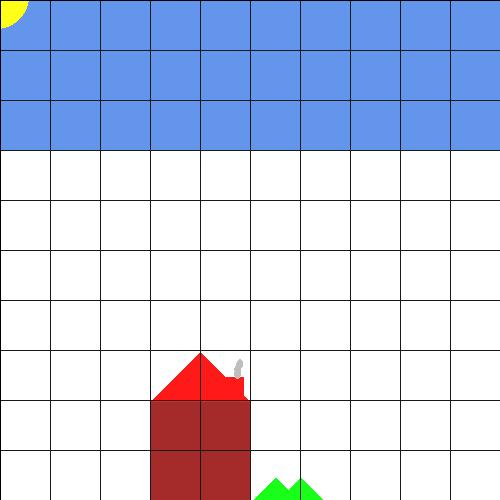
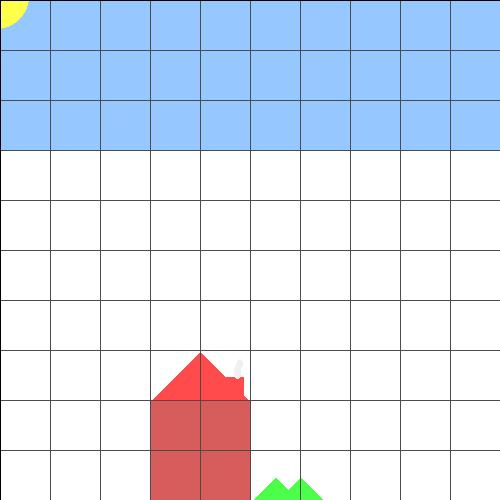
fix old test

diff --git a/Introduction to Software Engineering/project/src/unittests/RenderTest.java b/Introduction to Software Engineering/project/src/unittests/RenderTest.java
@@ -1,5 +1,7 @@
 package unittests;
 
+import static org.junit.Assert.fail;
+
 //import static org.junit.jupiter.api.Assertions.*;
 import org.junit.jupiter.api.Test;
 import geometries.*;
@@ -136,59 +138,89 @@ public class RenderTest {
 //	}
 	@Test
 	public void house(){
-		Scene scene = new Scene("Test scene");
-		scene.set_camera(new Camera(new Vector(0, -1, 0), new Vector(0, 0, 1), new Point3D(0, 0, 0)));
-		scene.set_distance(100);
-		scene.set_background(new Color(255, 255, 255));
-		Geometries geometries = new Geometries();
-		scene.set_geometries(geometries);
-		
-		geometries.addGeometry(new Triangle(new Point3D(-150, 225, 149),
-											new Point3D(  0, 375, 149),
-											new Point3D(-150, 375, 149), new Color(140,17,17)));
-		geometries.addGeometry(new Triangle(new Point3D(-150, 225, 149),
-											new Point3D(  0, 525, 149),
-											new Point3D(0, 225, 149),  new Color(140,17,17)));
-		geometries.addGeometry(new Triangle(new Point3D(-150, 225, 149),
-											new Point3D(  0, 225, 149),
-											new Point3D(-75, 150, 149), new Color(255,0,0)));
-		geometries.addGeometry(new Triangle(new Point3D(-10, 187.5, 149),
-											new Point3D(  -10, 215, 149),
-											new Point3D(-37.5, 187.5, 149), new Color(255,0,0)));
-		geometries.addGeometry(new Triangle(new Point3D(0, 375, 149),
-											new Point3D(  75, 375, 149),
-											new Point3D(37.5, 337.5, 149), new Color(0,255,0)));
-		geometries.addGeometry(new Triangle(new Point3D(37.5, 375, 149),
-											new Point3D(  112.5, 375, 149),
-											new Point3D(75, 337.5, 149), new Color(0,255,0)));
-		
-		geometries.addGeometry(new Triangle(new Point3D(0, -150, 149),
-											new Point3D(  375, -150, 149),
-											new Point3D(375, -375, 149), new Color(75,124,212)));
-		geometries.addGeometry(new Triangle(new Point3D(0, -150, 149),
-											new Point3D(  0, -375, 149),
-											new Point3D(375, -375, 149), new Color(75,124,212)));
-		geometries.addGeometry(new Triangle(new Point3D(0, -150, 149),
-											new Point3D(  -375, -150, 149),
-											new Point3D(-375, -375, 149), new Color(75,124,212)));
-		geometries.addGeometry(new Triangle(new Point3D(0, -150, 149),
-											new Point3D(  0, -375, 149),
-											new Point3D(-375, -375, 149), new Color(75,124,212)));
-		
-		geometries.addGeometry(new Sphere(new Point3D(-20, 184, 150), 5, new Color(165,165,165)));
-		geometries.addGeometry(new Sphere(new Point3D(-20, 177, 150), 5, new Color(165,165,165)));
-		geometries.addGeometry(new Sphere(new Point3D(-17, 170, 150), 5, new Color(165,165,165)));
-		
-		geometries.addGeometry(new Sphere(new Point3D(-380, -380, 140), 50, new Color(230,230,0)));
+//		Scene scene = new Scene("Test scene");
+//		scene.set_camera(new Camera(new Vector(0, -1, 0), new Vector(0, 0, 1), new Point3D(0, 0, 0)));
+//		scene.set_distance(100);
+//		scene.set_background(new Color(255, 255, 255));
+//		Geometries geometries = new Geometries();
+//		scene.set_geometries(geometries);
+//		
+//		geometries.addGeometry(new Triangle(new Point3D(-150, 225, 149),
+//											new Point3D(  0, 375, 149),
+//											new Point3D(-150, 375, 149), new Color(140,17,17)));
+//		geometries.addGeometry(new Triangle(new Point3D(-150, 225, 149),
+//											new Point3D(  0, 525, 149),
+//											new Point3D(0, 225, 149),  new Color(140,17,17)));
+//		geometries.addGeometry(new Triangle(new Point3D(-150, 225, 149),
+//											new Point3D(  0, 225, 149),
+//											new Point3D(-75, 150, 149), new Color(255,0,0)));
+//		geometries.addGeometry(new Triangle(new Point3D(-10, 187.5, 149),
+//											new Point3D(  -10, 215, 149),
+//											new Point3D(-37.5, 187.5, 149), new Color(255,0,0)));
+//		geometries.addGeometry(new Triangle(new Point3D(0, 375, 149),
+//											new Point3D(  75, 375, 149),
+//											new Point3D(37.5, 337.5, 149), new Color(0,255,0)));
+//		geometries.addGeometry(new Triangle(new Point3D(37.5, 375, 149),
+//											new Point3D(  112.5, 375, 149),
+//											new Point3D(75, 337.5, 149), new Color(0,255,0)));
+//		
+//		geometries.addGeometry(new Triangle(new Point3D(0, -150, 149),
+//											new Point3D(  375, -150, 149),
+//											new Point3D(375, -375, 149), new Color(75,124,212)));
+//		geometries.addGeometry(new Triangle(new Point3D(0, -150, 149),
+//											new Point3D(  0, -375, 149),
+//											new Point3D(375, -375, 149), new Color(75,124,212)));
+//		geometries.addGeometry(new Triangle(new Point3D(0, -150, 149),
+//											new Point3D(  -375, -150, 149),
+//											new Point3D(-375, -375, 149), new Color(75,124,212)));
+//		geometries.addGeometry(new Triangle(new Point3D(0, -150, 149),
+//											new Point3D(  0, -375, 149),
+//											new Point3D(-375, -375, 149), new Color(75,124,212)));
+//		
+//		geometries.addGeometry(new Sphere(new Point3D(-20, 184, 150), 5, new Color(165,165,165)));
+//		geometries.addGeometry(new Sphere(new Point3D(-20, 177, 150), 5, new Color(165,165,165)));
+//		geometries.addGeometry(new Sphere(new Point3D(-17, 170, 150), 5, new Color(165,165,165)));
+//		
+//		geometries.addGeometry(new Sphere(new Point3D(-380, -380, 140), 50, new Color(230,230,0)));
+//
+//
+//		ImageWriter imageWriter = new ImageWriter("house", 500, 500, 500, 500);
+//		Render render = new Render(scene, imageWriter);
+//		
+//		render.renderImage();
+//		render.printGrid(50);
+//		render.writeToImage();
 
-
-		ImageWriter imageWriter = new ImageWriter("house", 500, 500, 500, 500);
-		Render render = new Render(scene, imageWriter);
 		
-		render.renderImage();
-		render.printGrid(50);
-		render.writeToImage();
-
-
+		try {
+			Triangle t1 = new Triangle(new Point3D(100, 0, -49), new Point3D(0, 100, -49), new Point3D(100, 100, -49),
+					new Color(150, 0, 0));
+			Triangle t2 = new Triangle(new Point3D(-100, 0, -49), new Point3D(0, 100, -49),
+					new Point3D(-100, 100, -49), new Color(0, 150, 0));
+			Triangle t3 = new Triangle(new Point3D(100, 0, -49), new Point3D(0, -100, -49),
+					new Point3D(100, -100, -49), new Color(0,0,150));
+			Triangle t4 = new Triangle(new Point3D(-100, 0, -49), new Point3D(0, -100, -49),
+					new Point3D(-100, -100, -49), new Color(255,255,255));
+			Sphere s = new Sphere( new Point3D(0, 0, -50),40, new Color(0,250,250));
+			Scene testScene = new Scene("testScene");
+			testScene.set_background(new Color(75, 127, 190));
+			testScene.set_camera(new Camera(new Vector(0, -1, 0), new Vector(0, 0, -1),Point3D.ZERO));
+			testScene.set_distance(50);
+			Geometries geometries = new Geometries();
+			testScene.set_geometries(geometries);
+			geometries.addGeometry(t1);
+			geometries.addGeometry(t2);
+			geometries.addGeometry(t3);
+			geometries.addGeometry(t4);
+			geometries.addGeometry(s);
+			ImageWriter testImageWriter = new ImageWriter("4TrianglesAndSphere", 500, 500, 500, 500);
+			Render testRender = new Render(testScene, testImageWriter);
+			testRender.renderImage();
+			testRender.printGrid(50);
+			testRender.writeToImage();
+		} catch (Exception e) {
+			fail(e.getMessage());
+		}
 	}
+
 }

diff --git a/Introduction to Software Engineering/project/src/geometries/Sphere.java b/Introduction to Software Engineering/project/src/geometries/Sphere.java
@@ -29,7 +29,7 @@ public class Sphere extends RadialGeometry {
 	 *            TODO
 	 */
 	public Sphere(Point3D point, double radius, Color color) {
-		super(radius,color);
+		super(radius, color);
 		_point = new Point3D(point);
 	}
 
@@ -63,7 +63,7 @@ public class Sphere extends RadialGeometry {
 	 * @return list of points of the intersection
 	 */
 	public Map<Geometry, List<Point3D>> findIntersections(Ray ray) {
-		Map<Geometry, List<Point3D>> intersections=new HashMap<>();
+		Map<Geometry, List<Point3D>> intersections = new HashMap<>();
 		List<Point3D> list = new ArrayList<>();
 		Point3D rayPoint = ray.getPoint();
 		Vector rayVector = ray.getDirection();
@@ -76,7 +76,7 @@ public class Sphere extends RadialGeometry {
 			// U = 0, tm = 0, d = 0, th = radius
 			// intersection = Po + t*V
 			list.add(_point.addVectorToPoint(rayVector.scaleVector(_radius)));
-				intersections.put(this, list);
+			intersections.put(this, list);
 			return intersections;
 		}
 
@@ -90,17 +90,22 @@ public class Sphere extends RadialGeometry {
 		// th = sqrt(r^2 - d^2)
 		double th = Math.sqrt(_radius * _radius - d * d);
 		if (Coordinate.ZERO.equals(th)) {
-			if (tm > 0)
+			if (tm > 0) {
 				list.add(rayPoint.addVectorToPoint(rayVector.scaleVector(tm)));
+				intersections.put(this, list);
+			}
 		} else {
 			double t1 = tm + th;
 			double t2 = tm - th;
-			if (t1 > 0)
+			if (t1 > 0) {
 				list.add(rayPoint.addVectorToPoint(rayVector.scaleVector(t1)));
-			if (t2 > 0)
+				intersections.put(this, list);
+			}
+			if (t2 > 0) {
 				list.add(rayPoint.addVectorToPoint(rayVector.scaleVector(t2)));
+				intersections.put(this, list);
+			}
 		}
-		intersections.put(this, list);
 		return intersections;
 	}
 }

diff --git a/Introduction to Software Engineering/project/src/unittests/TriangleTests.java b/Introduction to Software Engineering/project/src/unittests/TriangleTests.java
@@ -6,11 +6,15 @@ package unittests;
 import static org.junit.jupiter.api.Assertions.*;
 
 import java.util.ArrayList;
+import java.util.List;
+import java.util.Map;
 
 import org.junit.jupiter.api.Test;
 
 import elements.Camera;
+import geometries.Geometry;
 import geometries.Triangle;
+import primitives.Color;
 import primitives.Point3D;
 import primitives.Ray;
 import primitives.Vector;
@@ -23,16 +27,15 @@ import scene.Scene;
 class TriangleTests {
 
 	private ArrayList<Point3D> getIntersections(Scene scene, Triangle triangle){
-		System.out.println("===============================================");
 		ArrayList<Point3D> list = new ArrayList<>();
 		for(int i = 1 ; i < 4 ;++i) {
 			for (int j = 1; j < 4; ++j) {
 				Ray r = scene.get_camera().constructRayThroghPixel(3, 3, i, j, scene.get_distance(), 9, 9);
-				System.out.println(r);
-				list.addAll(triangle.findIntersections(r));
+				Map<Geometry, List<Point3D>> map = triangle.findIntersections(r);
+				if(!map.isEmpty())
+					list.addAll(map.get(triangle));
 			}
 		}
-		System.out.println("===============================================");
 		return list;
 	}
 	

diff --git a/Introduction to Software Engineering/project/src/unittests/SphereTests.java b/Introduction to Software Engineering/project/src/unittests/SphereTests.java
@@ -5,12 +5,14 @@ import static org.junit.jupiter.api.Assertions.*;
 import java.util.ArrayList;
 import java.util.Collection;
 import java.util.List;
+import java.util.Map;
 
 import javax.swing.plaf.synth.SynthStyle;
 
 import org.junit.jupiter.api.Test;
 
 import elements.Camera;
+import geometries.Geometry;
 import geometries.Sphere;
 import primitives.Color;
 import primitives.Coordinate;
@@ -24,16 +26,15 @@ class SphereTests {
     
 	@Test
 	private List<Point3D> getIntersections(Scene scene, Sphere sphere){
-		System.out.println("===============================================");
 		List<Point3D> list = new ArrayList<>();
 		for(int i = 1 ; i < 4 ;++i) {
 			for (int j = 1; j < 4; ++j) {
 				Ray r = scene.get_camera().constructRayThroghPixel(3, 3, i, j, scene.get_distance(), 9, 9);
-				System.out.println(r);
-				list.addAll(sphere.findIntersections(r));
+				Map<Geometry, List<Point3D>> map = sphere.findIntersections(r);
+				if(!map.isEmpty())
+					list.addAll(map.get(sphere));
 			}
 		}
-		System.out.println("===============================================");
 		return list;
 	}
 	

diff --git a/Introduction to Software Engineering/project/src/unittests/PlaneTests.java b/Introduction to Software Engineering/project/src/unittests/PlaneTests.java
@@ -7,6 +7,8 @@ package unittests;
 import static org.junit.jupiter.api.Assertions.*;
 
 import java.util.ArrayList;
+import java.util.List;
+import java.util.Map;
 
 import org.junit.jupiter.api.Test;
 
@@ -97,7 +99,9 @@ class PlaneTests {
         for(int i = 1 ; i < 4 ;++i) {
             for (int j = 1; j < 4; ++j) {
                 Ray r = scene.get_camera().constructRayThroghPixel(3, 3, i, j, scene.get_distance(), 9, 9);
-                list.addAll(plane.findIntersections(r));
+                Map<Geometry, List<Point3D>> map = plane.findIntersections(r);
+				if(!map.isEmpty())
+					list.addAll(map.get(plane));
             }
         }
         return list;

diff --git a/Introduction to Software Engineering/project/src/scene/Scene.java b/Introduction to Software Engineering/project/src/scene/Scene.java
@@ -39,7 +39,7 @@ public class Scene {
 	public Scene(String name) {
 		this._name = name;
 		this._background = new Color(0, 0, 0);
-		this._light = new AmbientLight(new Color(50, 50, 50), 0.5);
+		this._light = new AmbientLight(new Color(150, 150, 150), 0.5);
 	}
 
 	/**
